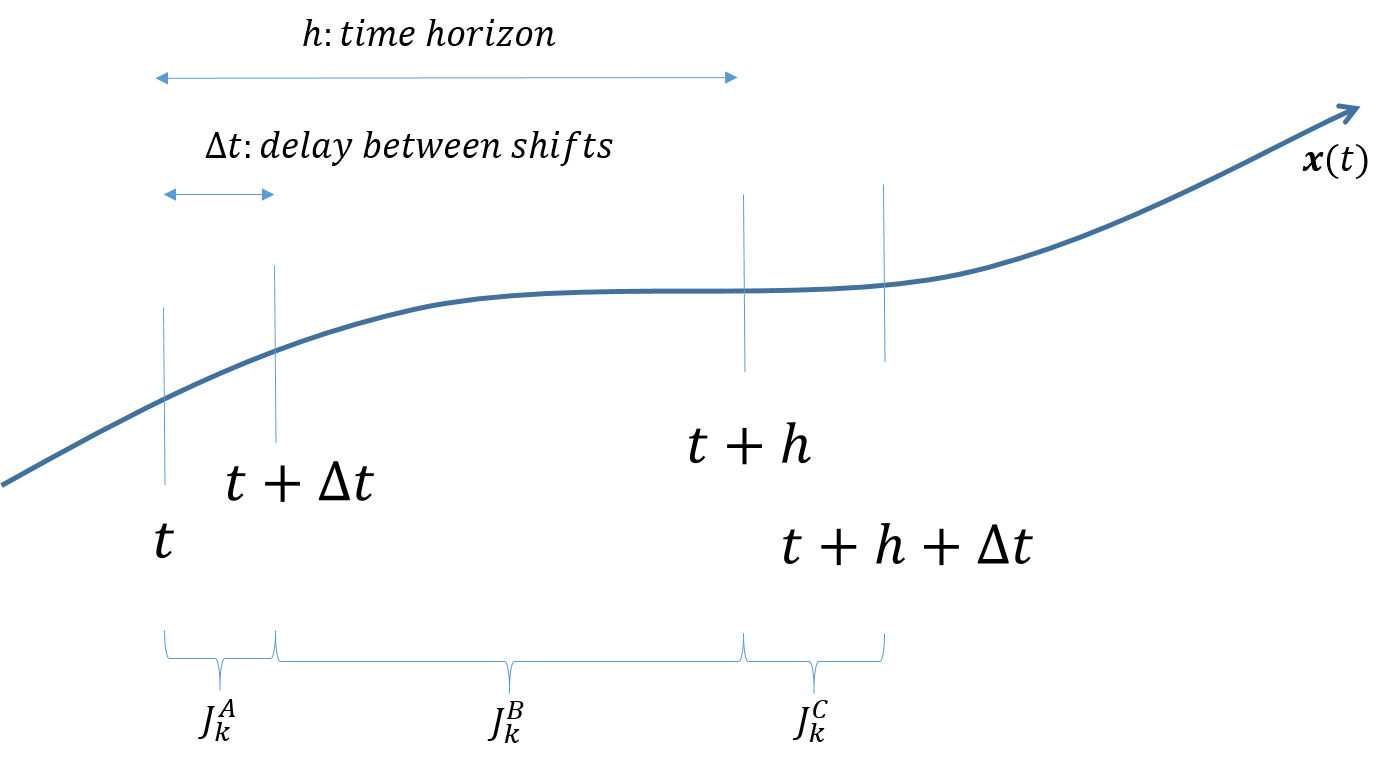
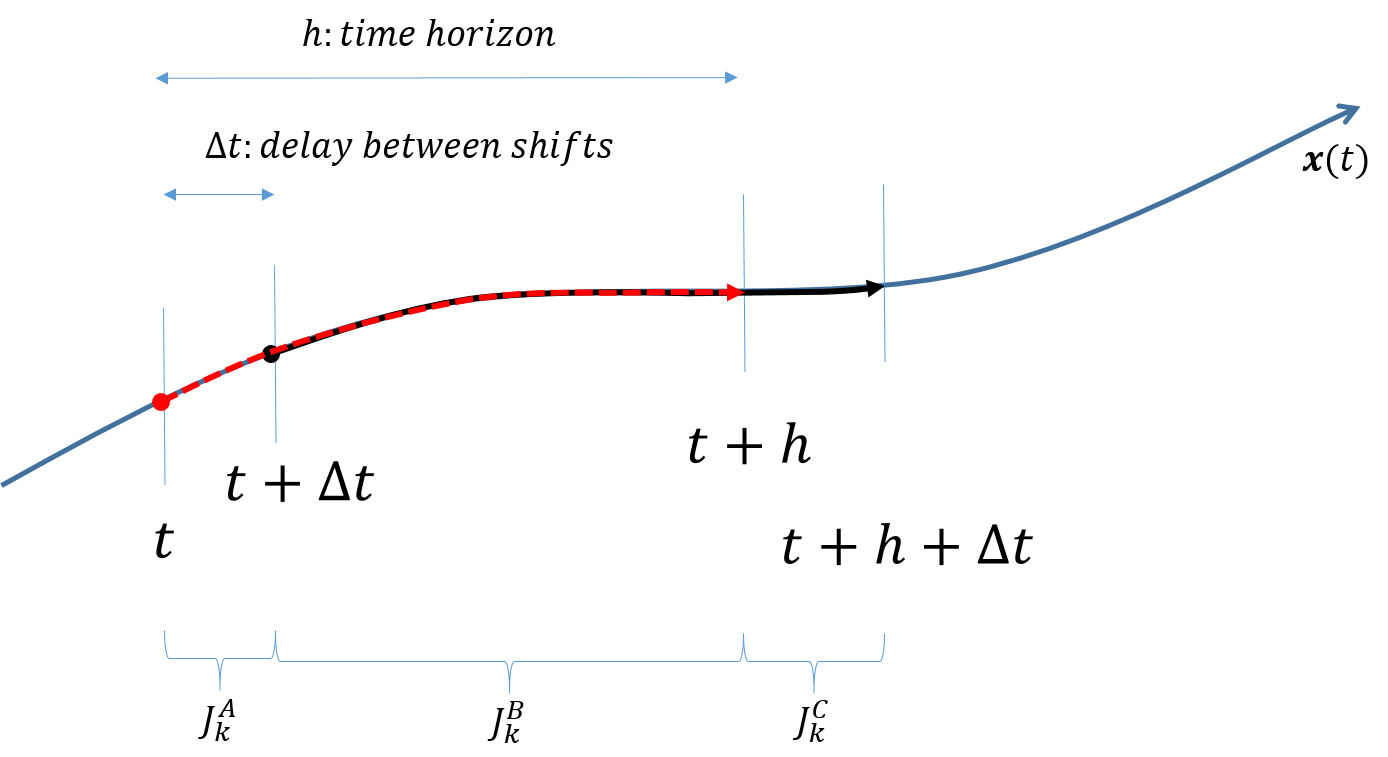
proof work

diff --git a/src/proofs.tex b/src/proofs.tex
@@ -279,13 +279,68 @@ J^*   &= 2 \sum_i{ \left[ \tau_i^E \tau_i^I + \left| \tau_i^E \tau_i^I \right| \
 
  
 \subsection{R* Computed Torque Controller}
-\label{sec:stabrstar}
+\label{sec:stabrstar1}
 
 
 \subsection{R* Sliding Mode Controller}
-\label{sec:stabrstar}
+\label{sec:stabrstar2}
 
 
-\section{Chattering Bounds}
+\section{Chattering Bounds with Rollout Gear-selection}
 \label{sec:chat}
+
+This section provides minimum delay guarantees for successive gear-shift when using the Rollout gear-selection scheme. 
+
+First, using the Rollout approach the optimal gear-ratio mode $k^*$ selection is done as follow:
+%
+\begin{align}
+k^*(t)   &= \operatornamewithlimits{argmin}\limits_{k} \left[ J_k(t) + Q \, [[ k \neq k_{previous}]] \, \right]
+\label{eq:rolloutsimple}
+\end{align}
+%
+where $J_k(t)$ is the computed cost over the simulated trajectory over the time horizon $h$ using the gear-ration mode $k$. If the minimize cost is the squared actuator torque then:
+%
+\begin{align}
+J_k(t) = \int_{t}^{t+h}{  \vec{\tau}_k^T \vec{\tau}_k \, d\hat{t} }
+\end{align}
+%
+where $\vec{\tau}_k$ is the computed torque in predictive simulation with the base policy when using the gear-ratio mode $k$. The variable $\hat{t}$ is use to represent time in the simulation.  An additional instantaneous cost $Q$ is added when the gear-ratio mode is changed. 
+
+
+\begin{figure}[H]
+	\centering
+		\includegraphics[width=0.9\textwidth]{rollouttrajs.png}
+	\caption{Real trajectory and simulated virtual trajectory in the Rollout controller}
+	\label{fig:rollouttrajs}
+\end{figure}
+
+
+\subsection{On a trajectory}
+\label{sec:chat1}
+
+Here a minimum time delay between a back-and-forth gear-shift sequence is derived for the situation where the robot has converged on a trajectory and is staying on the trajectory. In that case, it is assumed that both the simulation trajectory and the real system follow the same desired trajectory, see Fig. \ref{fig:costontrajrollout}.
+
+\begin{figure}[H]
+	\centering
+		\includegraphics[width=0.90\textwidth]{costontrajrollout.png}
+	\caption{Rollout controller behavior on a given trajectory}
+	\label{fig:costontrajrollout}
+\end{figure}
+
+It can be shown that if the computed torque $\vec{\tau}_k$ has an upper bound, then there is a minimum delay $\Delta t$ between a back-and-forth gear-shift sequence. Hence, no arbitrary fast chattering between gear-ratio is possible. 
+
+\paragraph{Proof} 
+
+Without lost of generality, lets assume a gear shift sequence where the robot is first using mode $i$, then shift to mode $j$ at time $t$ and then shift back to mode $i$ at time $t+\Delta t$. If such a sequence happened while using the gear-ratio selection law given by eq. \eqref{eq:rolloutsimple}, then some inequality must be satisfied:
+\begin{align}
+J_i(t)          + Q >& J_j(t) \\
+J_j(t+\Delta t) + Q >& J_i(t+\Delta t)
+\end{align}
+
+
+
+
+
+\subsection{Arbitrary}
+\label{sec:chat2}
 

diff --git a/src/controlplanning.tex b/src/controlplanning.tex
@@ -760,6 +760,8 @@ If convergence is guaranteed, the zeno behavior is impossible unless the desired
 
 Minimum delay on a trajectory
 
+Proof is detailed in Appendix \ref{sec:chat1}.
+
 Minimum delay in arbitrary situations
 
 
